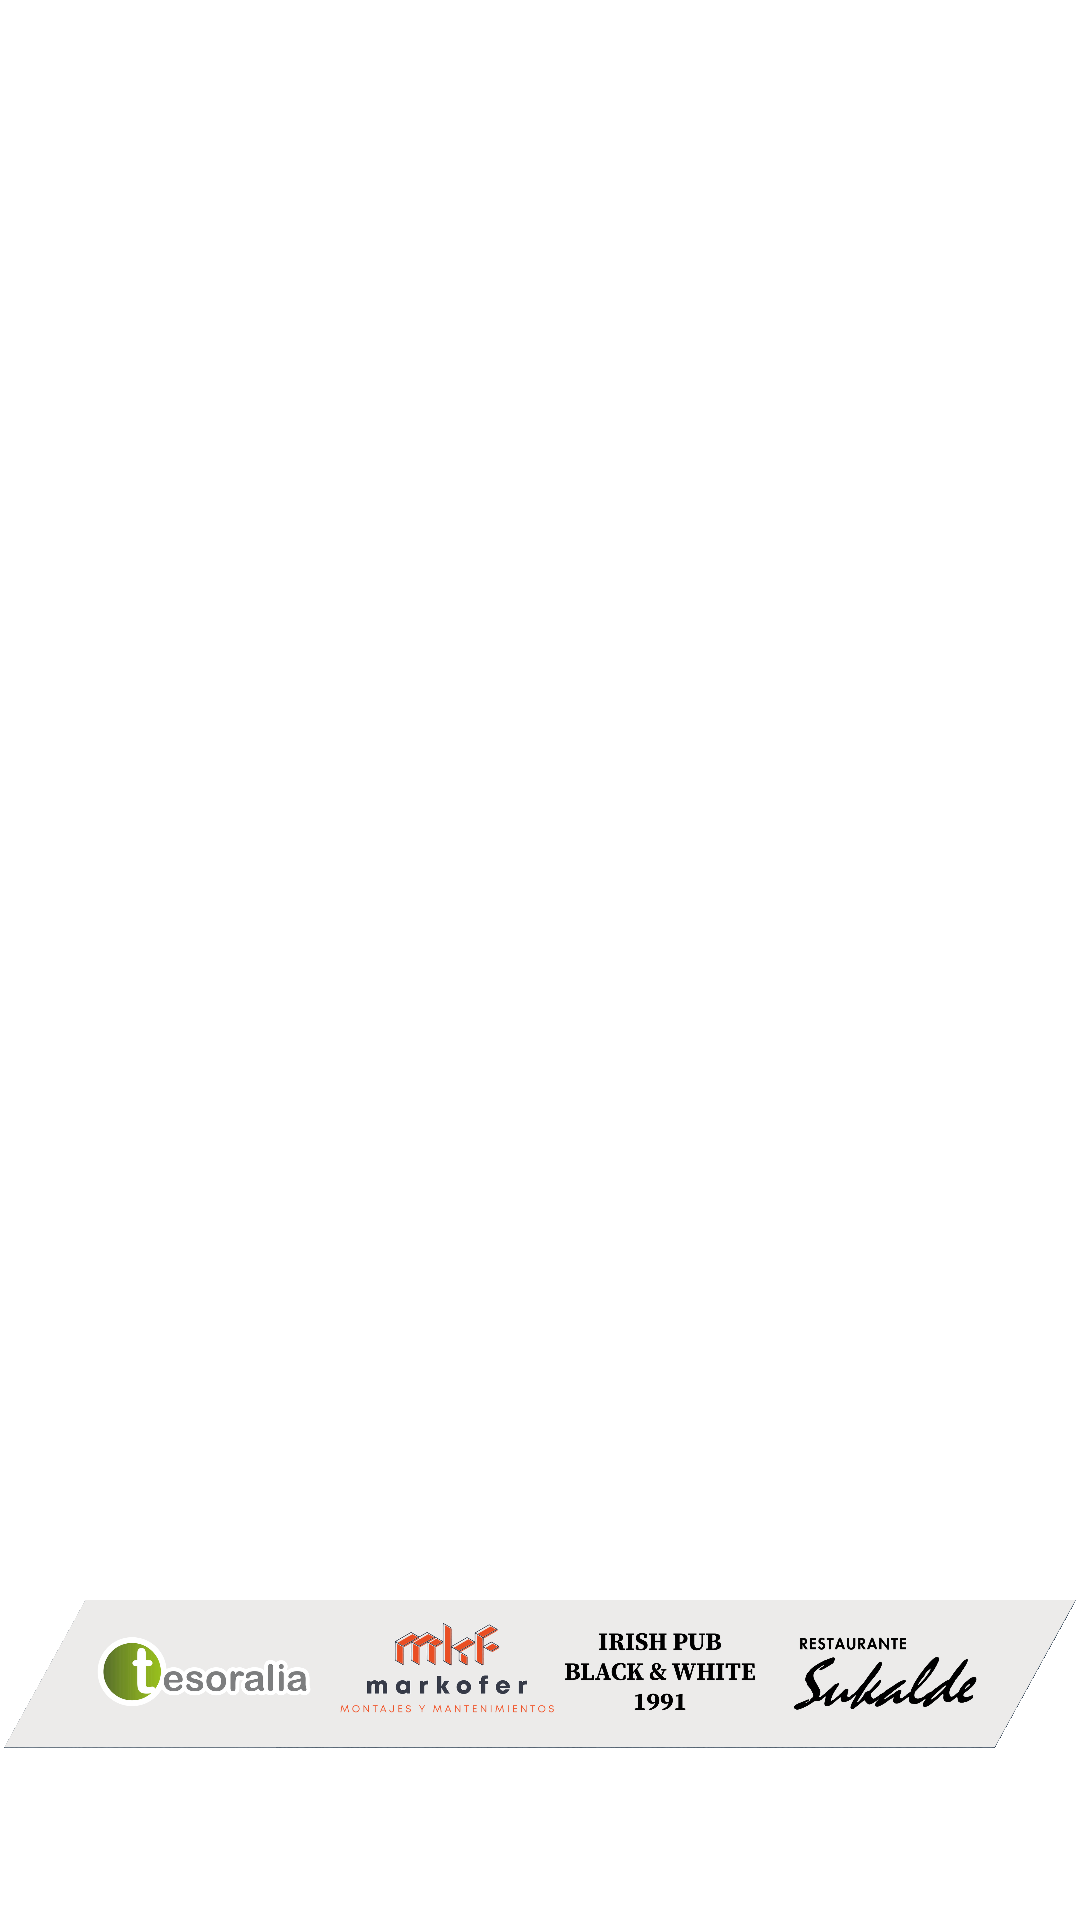
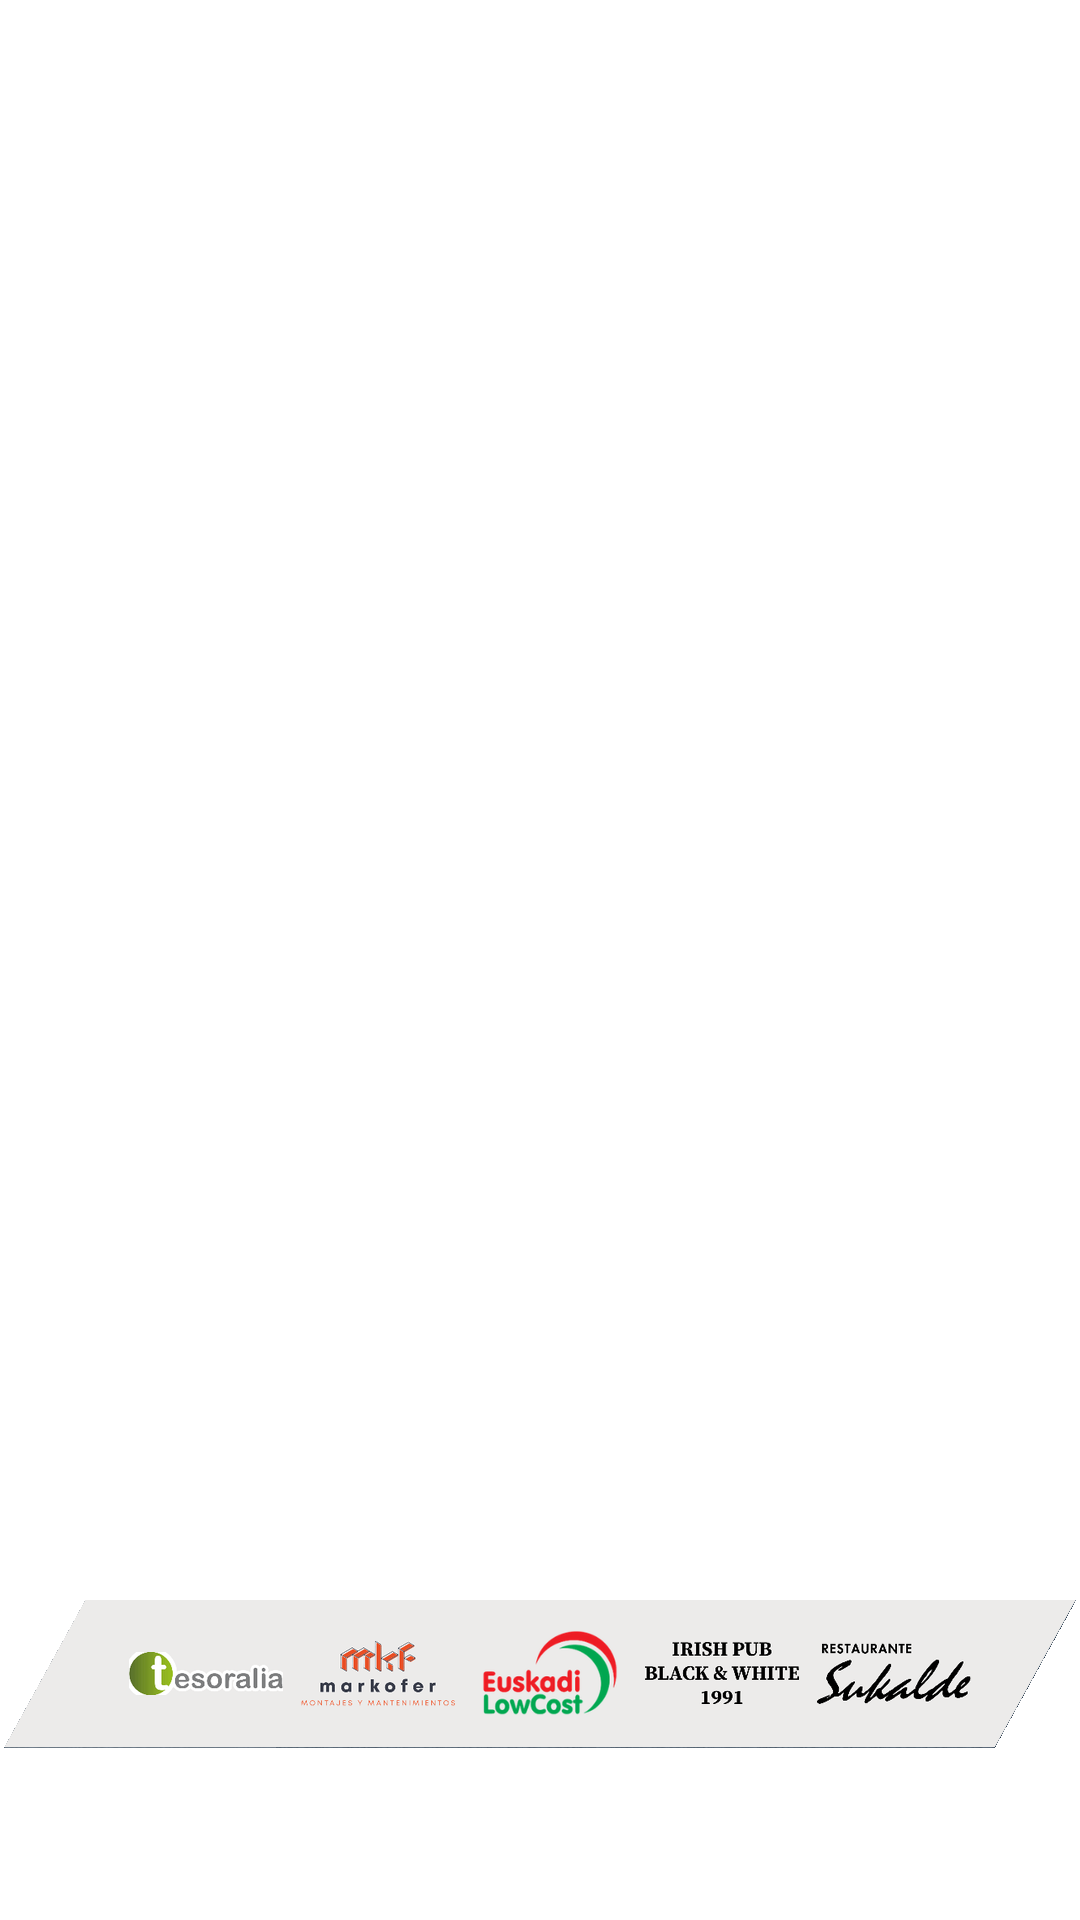
SAILKAPENA: banda con los cinco patrocinadores de Instagram (también Euskadi LowCost)
Claude-Session: https://claude.ai/code/session_01HGhHxNaaRD1kMFHjNqCnKz

Changed region(s): [[0.275, 0.8438, 0.9167, 0.9062], [0.0917, 0.8438, 0.275, 0.9062]]

diff --git a/redes/preparar_fondos.py b/redes/preparar_fondos.py
@@ -49,8 +49,43 @@ PIEZAS = {
     "emaitzak": {"origen": RESULTADOS, "titulo": (110, 262), "banda": (1165, 1350), "banda_y": (20, 167),
                  "post": (110, 1004), "historia": (360, 1580)},
 }
-# Clasificación: el fondo y los patrocinadores de EMAITZAK, sin título (no hay plantilla de Canva con «SAILKAPENA»)
-PIEZAS["sailkapena"] = {**PIEZAS["emaitzak"], "titulo": None}
+# Clasificación: el fondo de EMAITZAK, sin título (no hay plantilla de Canva con «SAILKAPENA»), y una banda
+# con los cinco patrocinadores (en horarios y resultados el tercero rota: Euskadi LowCost o Irish Pub)
+PIEZAS["sailkapena"] = {**PIEZAS["emaitzak"], "titulo": None, "cinco": True}
+GRIS_BANDA = (236, 235, 234)
+
+
+def logos(origen, desde, hasta, arriba, abajo, huecos):
+    """Recorta cada logo de una banda de Canva: en cada hueco (x desde, x hasta), lo que no es el gris de la banda."""
+    franja = Image.open(origen).convert("RGB").crop((0, desde + arriba + 8, 1080, desde + abajo - 8))
+    trozos = []
+    for x0, x1 in huecos:
+        logo = franja.crop((x0, 0, x1, franja.height))
+        distinto = Image.eval(logo, lambda v: v).point(lambda v: v).convert("L").point(lambda v: 255 if v < 222 else 0)
+        trozos.append(logo.crop(distinto.getbbox()))
+    return trozos
+
+
+def banda_cinco():
+    """La banda de EMAITZAK con los cinco patrocinadores repartidos: Tesoralia, Markofer, Euskadi LowCost,
+    Irish Pub y Sukalde (cada uno, del sitio donde está en Canva)."""
+    p = PIEZAS["emaitzak"]
+    banda = Image.open(RESULTADOS).convert("RGB").crop((0, p["banda"][0], 1080, p["banda"][1]))
+    arriba, abajo = p["banda_y"]
+    ImageDraw.Draw(banda).polygon([(BANDA_X[0] + 6, arriba + 6), (BANDA_X[0] + 984, arriba + 6),
+                                   (BANDA_X[1] + 984, abajo - 6), (BANDA_X[1] + 6, abajo - 6)], fill=GRIS_BANDA)
+    huecos = [(90, 325), (330, 562), (562, 775), (780, 990)]   # dónde está cada logo en las bandas de Canva
+    r = logos(RESULTADOS, *p["banda"], *p["banda_y"], huecos)          # tesoralia, markofer, irish, sukalde
+    o = PIEZAS["ordutegia"]
+    h = logos(HORARIOS, *o["banda"], *o["banda_y"], huecos)            # el tercero es Euskadi LowCost
+    cinco = [r[0], r[1], h[2], r[2], r[3]]
+    hueco, alto_max, centro_y = 172, 84, (arriba + abajo) // 2
+    for i, logo in enumerate(cinco):
+        escala = min(1, (hueco - 18) / logo.width, alto_max / logo.height)
+        logo = logo.resize((round(logo.width * escala), round(logo.height * escala)), Image.LANCZOS)
+        cx = 120 + hueco // 2 + i * hueco   # entre la esquina inclinada de la izquierda y la de la derecha
+        banda.paste(logo, (cx - logo.width // 2, centro_y - logo.height // 2))
+    return banda
 ALTO = {"post": 1350, "historia": 1920}
 
 
@@ -87,7 +122,7 @@ def lienzo(pieza, formato):
         if not franja:
             continue
         desde, hasta = franja
-        trozo = origen.crop((0, desde, 1080, hasta))
+        trozo = banda_cinco() if p.get("cinco") and franja == p["banda"] else origen.crop((0, desde, 1080, hasta))
         fondo.paste(trozo, (0, y), mascara_fundido(1080, trozo.height, abajo=y + trozo.height < ALTO[formato]))
     return fondo
 
@@ -105,7 +140,7 @@ def capa(pieza, formato):
         blanco = Image.new("RGBA", titulo.size, (255, 255, 255, 0))
         blanco.putalpha(brillo)
         capa.alpha_composite(blanco, (0, y_titulo))
-    banda = origen.crop((0, p["banda"][0], 1080, p["banda"][1])).convert("RGBA")
+    banda = (banda_cinco() if p.get("cinco") else origen.crop((0, p["banda"][0], 1080, p["banda"][1]))).convert("RGBA")
     arriba, abajo = p["banda_y"]
     forma = Image.new("L", banda.size, 0)
     ImageDraw.Draw(forma).polygon([(BANDA_X[0], arriba), (BANDA_X[0] + 990, arriba),
